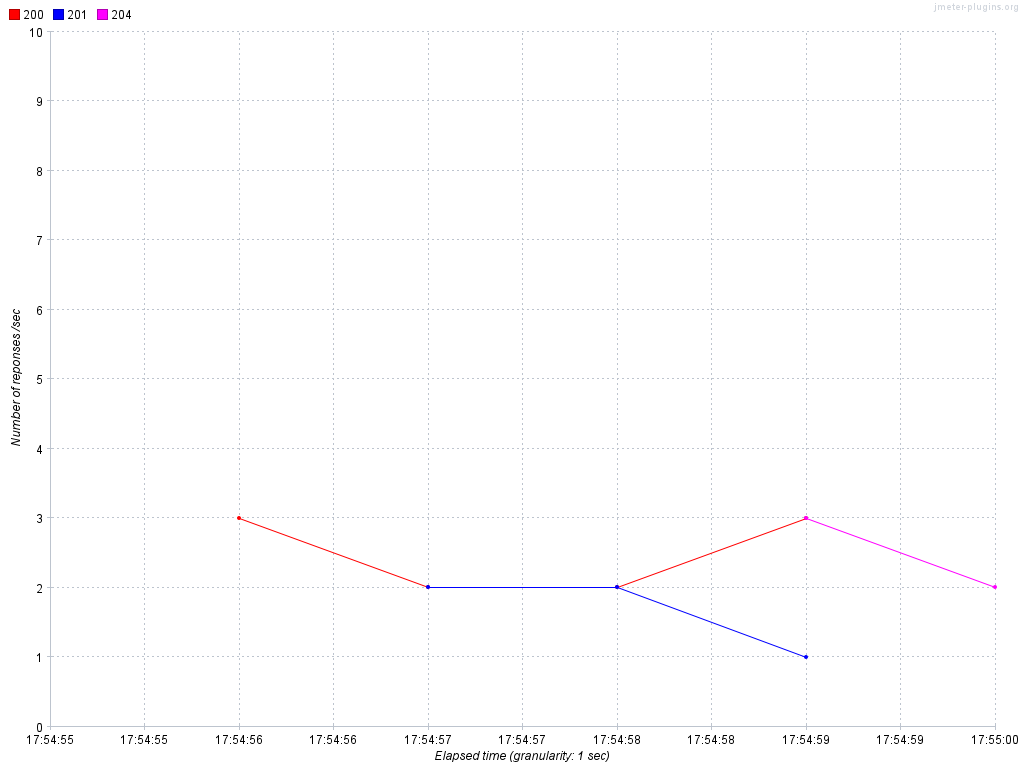
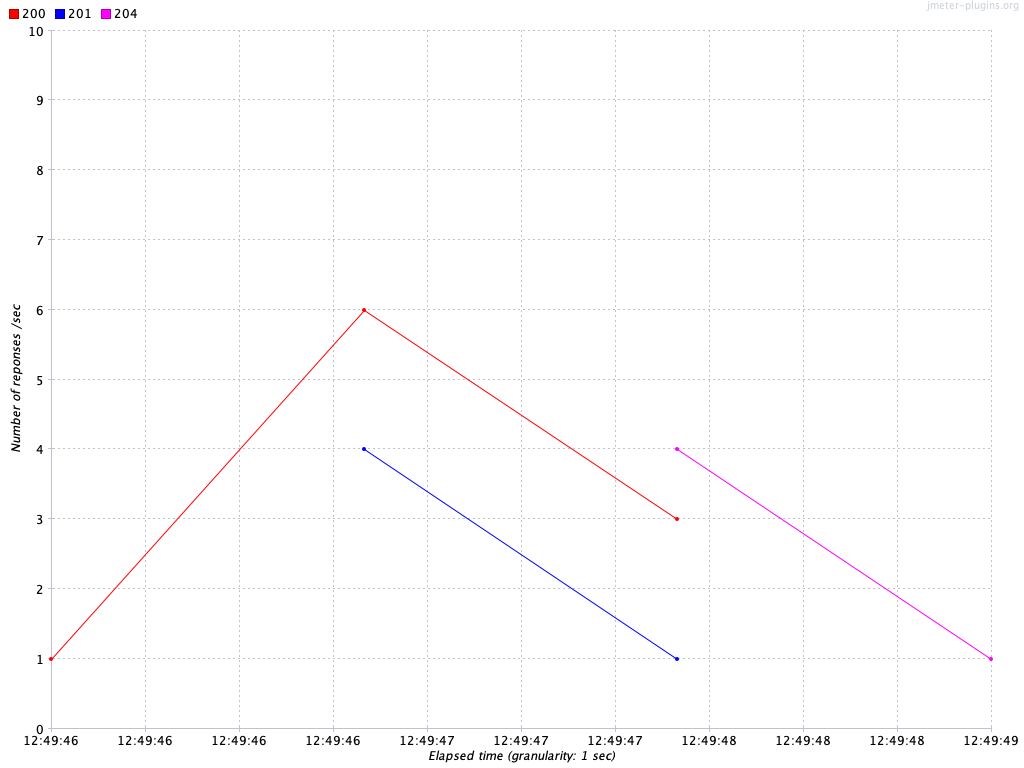
chore: update performance test reports and associated report artifacts

diff --git a/report/performance-tests/test-report.html b/report/performance-tests/test-report.html
@@ -50,7 +50,7 @@
 <a href="#"><span class="badge badge-primary">Performance Test Execution</span></a>
 </li>
 <li class="m-r-10">
-<a href="#"><span class="badge badge-primary">Jan 2, 2026 05:54:52 pm</span></a>
+<a href="#"><span class="badge badge-primary">Jan 3, 2026 12:49:44 pm</span></a>
 </li>
 </ul>
 </div>
@@ -96,7 +96,7 @@
           <div class="test-detail">
             <p class="name">GoRest User Lifecycle Test</p>
             <p class="text-sm">
-              <span>5:54:52 pm</span> / <span>00:00:06:658</span>
+              <span>12:49:44 pm</span> / <span>00:00:03:863</span>
               <span class="badge pass-bg log float-right">Pass</span>
             </p>
           </div>
@@ -105,9 +105,9 @@
 <div class="p-v-10">
 <div class="info">
 <h5 class="test-status text-pass">GoRest User Lifecycle Test</h5>
-<span class='badge badge-success'>01.02.2026 5:54:52 pm</span>
-<span class='badge badge-danger'>01.02.2026 5:54:59 pm</span>
-<span class='badge badge-default'>00:00:06:658</span>
+<span class='badge badge-success'>01.03.2026 12:49:44 pm</span>
+<span class='badge badge-danger'>01.03.2026 12:49:48 pm</span>
+<span class='badge badge-default'>00:00:03:863</span>
 &middot; <span class='uri-anchor badge badge-default'>#test-id=1</span>
 <span title='Skip to the next failed step' class='badge badge-danger pointer float-right ne ml-1'><i class="fa fa-fast-forward"></i></span>
 <span title='Collapse all nodes' class='badge badge-default pointer float-right ct ml-1'><i class="fa fa-compress"></i></span>
@@ -120,42 +120,42 @@
   <tbody>
       <tr class="event-row">
         <td><span class="badge log info-bg">Info</span></td>
-        <td>5:54:59 pm</td>
+        <td>12:49:48 pm</td>
         <td>
           <span class='badge white-text teal'>Execution Statistics</span>
         </td>
       </tr>
       <tr class="event-row">
         <td><span class="badge log info-bg">Info</span></td>
-        <td>5:54:59 pm</td>
+        <td>12:49:48 pm</td>
         <td>
-          <table class='table table-sm table-bordered'><thead><tr><th>Total</th><th>Pass</th><th>Fail</th><th>Avg Duration</th><th>Min</th><th>Max</th></tr></thead><tbody><tr><td>10</td><td style='color: green; font-weight: bold;'>10</td><td style='color: red; font-weight: bold;'>0</td><td>2380.30 ms</td><td>1791 ms</td><td>3225 ms</td></tr></tbody></table>
+          <table class='table table-sm table-bordered'><thead><tr><th>Total</th><th>Pass</th><th>Fail</th><th>Avg Duration</th><th>Min</th><th>Max</th></tr></thead><tbody><tr><td>10</td><td style='color: green; font-weight: bold;'>10</td><td style='color: red; font-weight: bold;'>0</td><td>1097.20 ms</td><td>786 ms</td><td>1954 ms</td></tr></tbody></table>
         </td>
       </tr>
       <tr class="event-row">
         <td><span class="badge log info-bg">Info</span></td>
-        <td>5:54:59 pm</td>
+        <td>12:49:48 pm</td>
         <td>
           <span class='badge white-text teal'>Detailed Execution Log</span>
         </td>
       </tr>
       <tr class="event-row">
         <td><span class="badge log info-bg">Info</span></td>
-        <td>5:54:59 pm</td>
+        <td>12:49:48 pm</td>
         <td>
-          <table class='table table-sm table-bordered'><thead><tr class='bg-gray'><th>Method</th><th>URL</th><th>Status</th><th>Duration</th></tr></thead><tbody><tr><td><span class='badge-method' style='background-color: #17a2b8'>GET</span></td><td class='col-url' title='https://gorest.co.in/public/v2/users'>https://gorest.co.in/public/v2/users</td><td><span class='badge white-text green'>200</span></td><td style='text-align: right;'>1604 ms</td></tr><tr><td colspan='4' style='color: #28a745; padding: 10px; background-color: #f0f8f0;'><b>Response:</b> <pre style='margin: 5px 0; white-space: pre-wrap; word-wrap: break-word;'>[{&quot;id&quot;:8115304,&quot;name&quot;:&quot;Rageswari Malik&quot;,&quot;email&quot;:&quot;rageswari_malik@murazik-kunde.test&quot;,&quot;gender&quot;:&quot;female&quot;,&quot;status&quot;:&quot;inactive&quot;},{&quot;id&quot;:8115303,&quot;name&quot;:&quot;Mrs. Somnath Sinha&quot;,&quot;email&quot;:&quot;mrs_sinha_somnath@larkin.example&quot;,&quot;gender&quot;:&quot;female&quot;,&quot;status&quot;:&quot;active&quot;},{&quot;id&quot;:8115302,&quot;name&quot;:&quot;Goutam Devar CPA&quot;,&quot;email&quot;:&quot;devar_cpa_goutam@thiel.example&quot;,&quot;gender&quot;:&quot;female&quot;,&quot;status&quot;:&quot;inactive&quot;},{&quot;id&quot;:8115301,&quot;name&quot;:&quot;Divya Embranthiri&quot;,&quot;email&quot;:&quot;divya_embranthiri@hirthe.example&quot;,&quot;gender&quot;:&quot;male&quot;,&quot;status&quot;:&quot;inactive&quot;},{&quot;id&quot;:8115300... (truncated)</pre></td></tr><tr><td><span class='badge-method' style='background-color: #28a745'>POST</span></td><td class='col-url' title='https://gorest.co.in/public/v2/users'>https://gorest.co.in/public/v2/users</td><td><span class='badge white-text green'>201</span></td><td style='text-align: right;'>838 ms</td></tr><tr><td colspan='4' style='color: #28a745; padding: 10px; background-color: #f0f8f0;'><b>Response:</b> <pre style='margin: 5px 0; white-space: pre-wrap; word-wrap: break-word;'>{&quot;id&quot;:8316382,&quot;name&quot;:&quot;User_48411&quot;,&quot;email&quot;:&quot;user183991767356695563@testdomain.com&quot;,&quot;gender&quot;:&quot;male&quot;,&quot;status&quot;:&quot;active&quot;}</pre></td></tr><tr><td><span class='badge-method' style='background-color: #17a2b8'>GET</span></td><td class='col-url' title='https://gorest.co.in/public/v2/users'>https://gorest.co.in/public/v2/users</td><td><span class='badge white-text green'>200</span></td><td style='text-align: right;'>1231 ms</td></tr><tr><td colspan='4' style='color: #28a745; padding: 10px; background-color: #f0f8f0;'><b>Response:</b> <pre style='margin: 5px 0; white-space: pre-wrap; word-wrap: break-word;'>[{&quot;id&quot;:8115304,&quot;name&quot;:&quot;Rageswari Malik&quot;,&quot;email&quot;:&quot;rageswari_malik@murazik-kunde.test&quot;,&quot;gender&quot;:&quot;female&quot;,&quot;status&quot;:&quot;inactive&quot;},{&quot;id&quot;:8115303,&quot;name&quot;:&quot;Mrs. Somnath Sinha&quot;,&quot;email&quot;:&quot;mrs_sinha_somnath@larkin.example&quot;,&quot;gender&quot;:&quot;female&quot;,&quot;status&quot;:&quot;active&quot;},{&quot;id&quot;:8115302,&quot;name&quot;:&quot;Goutam Devar CPA&quot;,&quot;email&quot;:&quot;devar_cpa_goutam@thiel.example&quot;,&quot;gender&quot;:&quot;female&quot;,&quot;status&quot;:&quot;inactive&quot;},{&quot;id&quot;:8115301,&quot;name&quot;:&quot;Divya Embranthiri&quot;,&quot;email&quot;:&quot;divya_embranthiri@hirthe.example&quot;,&quot;gender&quot;:&quot;male&quot;,&quot;status&quot;:&quot;inactive&quot;},{&quot;id&quot;:8115300... (truncated)</pre></td></tr><tr><td><span class='badge-method' style='background-color: #28a745'>POST</span></td><td class='col-url' title='https://gorest.co.in/public/v2/users'>https://gorest.co.in/public/v2/users</td><td><span class='badge white-text green'>201</span></td><td style='text-align: right;'>833 ms</td></tr><tr><td colspan='4' style='color: #28a745; padding: 10px; background-color: #f0f8f0;'><b>Response:</b> <pre style='margin: 5px 0; white-space: pre-wrap; word-wrap: break-word;'>{&quot;id&quot;:8316383,&quot;name&quot;:&quot;User_49370&quot;,&quot;email&quot;:&quot;user411101767356695809@testdomain.com&quot;,&quot;gender&quot;:&quot;male&quot;,&quot;status&quot;:&quot;active&quot;}</pre></td></tr><tr><td><span class='badge-method' style='background-color: #17a2b8'>GET</span></td><td class='col-url' title='https://gorest.co.in/public/v2/users'>https://gorest.co.in/public/v2/users</td><td><span class='badge white-text green'>200</span></td><td style='text-align: right;'>2017 ms</td></tr><tr><td colspan='4' style='color: #28a745; padding: 10px; background-color: #f0f8f0;'><b>Response:</b> <pre style='margin: 5px 0; white-space: pre-wrap; word-wrap: break-word;'>[{&quot;id&quot;:8115304,&quot;name&quot;:&quot;Rageswari Malik&quot;,&quot;email&quot;:&quot;rageswari_malik@murazik-kunde.test&quot;,&quot;gender&quot;:&quot;female&quot;,&quot;status&quot;:&quot;inactive&quot;},{&quot;id&quot;:8115303,&quot;name&quot;:&quot;Mrs. Somnath Sinha&quot;,&quot;email&quot;:&quot;mrs_sinha_somnath@larkin.example&quot;,&quot;gender&quot;:&quot;female&quot;,&quot;status&quot;:&quot;active&quot;},{&quot;id&quot;:8115302,&quot;name&quot;:&quot;Goutam Devar CPA&quot;,&quot;email&quot;:&quot;devar_cpa_goutam@thiel.example&quot;,&quot;gender&quot;:&quot;female&quot;,&quot;status&quot;:&quot;inactive&quot;},{&quot;id&quot;:8115301,&quot;name&quot;:&quot;Divya Embranthiri&quot;,&quot;email&quot;:&quot;divya_embranthiri@hirthe.example&quot;,&quot;gender&quot;:&quot;male&quot;,&quot;status&quot;:&quot;inactive&quot;},{&quot;id&quot;:8115300... (truncated)</pre></td></tr><tr><td><span class='badge-method' style='background-color: #28a745'>POST</span></td><td class='col-url' title='https://gorest.co.in/public/v2/users'>https://gorest.co.in/public/v2/users</td><td><span class='badge white-text green'>201</span></td><td style='text-align: right;'>1205 ms</td></tr><tr><td colspan='4' style='color: #28a745; padding: 10px; background-color: #f0f8f0;'><b>Response:</b> <pre style='margin: 5px 0; white-space: pre-wrap; word-wrap: break-word;'>{&quot;id&quot;:8316384,&quot;name&quot;:&quot;User_12925&quot;,&quot;email&quot;:&quot;user267821767356695801@testdomain.com&quot;,&quot;gender&quot;:&quot;male&quot;,&quot;status&quot;:&quot;active&quot;}</pre></td></tr><tr><td><span class='badge-method' style='background-color: #17a2b8'>GET</span></td><td class='col-url' title='https://gorest.co.in/public/v2/users'>https://gorest.co.in/public/v2/users</td><td><span class='badge white-text green'>200</span></td><td style='text-align: right;'>1224 ms</td></tr><tr><td colspan='4' style='color: #28a745; padding: 10px; background-color: #f0f8f0;'><b>Response:</b> <pre style='margin: 5px 0; white-space: pre-wrap; word-wrap: break-word;'>[{&quot;id&quot;:8115304,&quot;name&quot;:&quot;Rageswari Malik&quot;,&quot;email&quot;:&quot;rageswari_malik@murazik-kunde.test&quot;,&quot;gender&quot;:&quot;female&quot;,&quot;status&quot;:&quot;inactive&quot;},{&quot;id&quot;:8115303,&quot;name&quot;:&quot;Mrs. Somnath Sinha&quot;,&quot;email&quot;:&quot;mrs_sinha_somnath@larkin.example&quot;,&quot;gender&quot;:&quot;female&quot;,&quot;status&quot;:&quot;active&quot;},{&quot;id&quot;:8115302,&quot;name&quot;:&quot;Goutam Devar CPA&quot;,&quot;email&quot;:&quot;devar_cpa_goutam@thiel.example&quot;,&quot;gender&quot;:&quot;female&quot;,&quot;status&quot;:&quot;inactive&quot;},{&quot;id&quot;:8115301,&quot;name&quot;:&quot;Divya Embranthiri&quot;,&quot;email&quot;:&quot;divya_embranthiri@hirthe.example&quot;,&quot;gender&quot;:&quot;male&quot;,&quot;status&quot;:&quot;inactive&quot;},{&quot;id&quot;:8115300... (truncated)</pre></td></tr><tr><td><span class='badge-method' style='background-color: #28a745'>POST</span></td><td class='col-url' title='https://gorest.co.in/public/v2/users'>https://gorest.co.in/public/v2/users</td><td><span class='badge white-text green'>201</span></td><td style='text-align: right;'>1624 ms</td></tr><tr><td colspan='4' style='color: #28a745; padding: 10px; background-color: #f0f8f0;'><b>Response:</b> <pre style='margin: 5px 0; white-space: pre-wrap; word-wrap: break-word;'>{&quot;id&quot;:8316385,&quot;name&quot;:&quot;User_82265&quot;,&quot;email&quot;:&quot;user343661767356695563@testdomain.com&quot;,&quot;gender&quot;:&quot;male&quot;,&quot;status&quot;:&quot;active&quot;}</pre></td></tr><tr><td><span class='badge-method' style='background-color: #17a2b8'>GET</span></td><td class='col-url' title='https://gorest.co.in/public/v2/users'>https://gorest.co.in/public/v2/users</td><td><span class='badge white-text green'>200</span></td><td style='text-align: right;'>872 ms</td></tr><tr><td colspan='4' style='color: #28a745; padding: 10px; background-color: #f0f8f0;'><b>Response:</b> <pre style='margin: 5px 0; white-space: pre-wrap; word-wrap: break-word;'>[{&quot;id&quot;:8115304,&quot;name&quot;:&quot;Rageswari Malik&quot;,&quot;email&quot;:&quot;rageswari_malik@murazik-kunde.test&quot;,&quot;gender&quot;:&quot;female&quot;,&quot;status&quot;:&quot;inactive&quot;},{&quot;id&quot;:8115303,&quot;name&quot;:&quot;Mrs. Somnath Sinha&quot;,&quot;email&quot;:&quot;mrs_sinha_somnath@larkin.example&quot;,&quot;gender&quot;:&quot;female&quot;,&quot;status&quot;:&quot;active&quot;},{&quot;id&quot;:8115302,&quot;name&quot;:&quot;Goutam Devar CPA&quot;,&quot;email&quot;:&quot;devar_cpa_goutam@thiel.example&quot;,&quot;gender&quot;:&quot;female&quot;,&quot;status&quot;:&quot;inactive&quot;},{&quot;id&quot;:8115301,&quot;name&quot;:&quot;Divya Embranthiri&quot;,&quot;email&quot;:&quot;divya_embranthiri@hirthe.example&quot;,&quot;gender&quot;:&quot;male&quot;,&quot;status&quot;:&quot;inactive&quot;},{&quot;id&quot;:8115300... (truncated)</pre></td></tr><tr><td><span class='badge-method' style='background-color: #28a745'>POST</span></td><td class='col-url' title='https://gorest.co.in/public/v2/users'>https://gorest.co.in/public/v2/users</td><td><span class='badge white-text green'>201</span></td><td style='text-align: right;'>1939 ms</td></tr><tr><td colspan='4' style='color: #28a745; padding: 10px; background-color: #f0f8f0;'><b>Response:</b> <pre style='margin: 5px 0; white-space: pre-wrap; word-wrap: break-word;'>{&quot;id&quot;:8316386,&quot;name&quot;:&quot;User_80736&quot;,&quot;email&quot;:&quot;user533271767356695849@testdomain.com&quot;,&quot;gender&quot;:&quot;male&quot;,&quot;status&quot;:&quot;active&quot;}</pre></td></tr><tr><td><span class='badge-method' style='background-color: #777'>PATCH</span></td><td class='col-url' title='https://gorest.co.in/public/v2/users/8316383'>https://gorest.co.in/public/v2/users/8316383</td><td><span class='badge white-text green'>200</span></td><td style='text-align: right;'>894 ms</td></tr><tr><td colspan='4' style='color: #28a745; padding: 10px; background-color: #f0f8f0;'><b>Response:</b> <pre style='margin: 5px 0; white-space: pre-wrap; word-wrap: break-word;'>{&quot;email&quot;:&quot;updated469051767356696643@testdomain.com&quot;,&quot;name&quot;:&quot;UpdatedUser_76433&quot;,&quot;status&quot;:&quot;active&quot;,&quot;id&quot;:8316383,&quot;gender&quot;:&quot;male&quot;}</pre></td></tr><tr><td><span class='badge-method' style='background-color: #dc3545'>DELETE</span></td><td class='col-url' title='https://gorest.co.in/public/v2/users/8316383'>https://gorest.co.in/public/v2/users/8316383</td><td><span class='badge white-text green'>204</span></td><td style='text-align: right;'>930 ms</td></tr><tr><td><span class='badge-method' style='background-color: #777'>PATCH</span></td><td class='col-url' title='https://gorest.co.in/public/v2/users/8316382'>https://gorest.co.in/public/v2/users/8316382</td><td><span class='badge white-text green'>200</span></td><td style='text-align: right;'>1203 ms</td></tr><tr><td colspan='4' style='color: #28a745; padding: 10px; background-color: #f0f8f0;'><b>Response:</b> <pre style='margin: 5px 0; white-space: pre-wrap; word-wrap: break-word;'>{&quot;email&quot;:&quot;updated147251767356696425@testdomain.com&quot;,&quot;name&quot;:&quot;UpdatedUser_71459&quot;,&quot;status&quot;:&quot;active&quot;,&quot;id&quot;:8316382,&quot;gender&quot;:&quot;male&quot;}</pre></td></tr><tr><td><span class='badge-method' style='background-color: #dc3545'>DELETE</span></td><td class='col-url' title='https://gorest.co.in/public/v2/users/8316382'>https://gorest.co.in/public/v2/users/8316382</td><td><span class='badge white-text green'>204</span></td><td style='text-align: right;'>846 ms</td></tr><tr><td><span class='badge-method' style='background-color: #777'>PATCH</span></td><td class='col-url' title='https://gorest.co.in/public/v2/users/8316384'>https://gorest.co.in/public/v2/users/8316384</td><td><span class='badge white-text green'>200</span></td><td style='text-align: right;'>1079 ms</td></tr><tr><td colspan='4' style='color: #28a745; padding: 10px; background-color: #f0f8f0;'><b>Response:</b> <pre style='margin: 5px 0; white-space: pre-wrap; word-wrap: break-word;'>{&quot;email&quot;:&quot;updated229401767356697007@testdomain.com&quot;,&quot;name&quot;:&quot;UpdatedUser_84416&quot;,&quot;status&quot;:&quot;active&quot;,&quot;id&quot;:8316384,&quot;gender&quot;:&quot;male&quot;}</pre></td></tr><tr><td><span class='badge-method' style='background-color: #dc3545'>DELETE</span></td><td class='col-url' title='https://gorest.co.in/public/v2/users/8316384'>https://gorest.co.in/public/v2/users/8316384</td><td><span class='badge white-text green'>204</span></td><td style='text-align: right;'>858 ms</td></tr><tr><td><span class='badge-method' style='background-color: #777'>PATCH</span></td><td class='col-url' title='https://gorest.co.in/public/v2/users/8316385'>https://gorest.co.in/public/v2/users/8316385</td><td><span class='badge white-text green'>200</span></td><td style='text-align: right;'>1189 ms</td></tr><tr><td colspan='4' style='color: #28a745; padding: 10px; background-color: #f0f8f0;'><b>Response:</b> <pre style='margin: 5px 0; white-space: pre-wrap; word-wrap: break-word;'>{&quot;email&quot;:&quot;updated353991767356697188@testdomain.com&quot;,&quot;name&quot;:&quot;UpdatedUser_35532&quot;,&quot;status&quot;:&quot;active&quot;,&quot;id&quot;:8316385,&quot;gender&quot;:&quot;male&quot;}</pre></td></tr><tr><td><span class='badge-method' style='background-color: #dc3545'>DELETE</span></td><td class='col-url' title='https://gorest.co.in/public/v2/users/8316385'>https://gorest.co.in/public/v2/users/8316385</td><td><span class='badge white-text green'>204</span></td><td style='text-align: right;'>883 ms</td></tr><tr><td><span class='badge-method' style='background-color: #777'>PATCH</span></td><td class='col-url' title='https://gorest.co.in/public/v2/users/8316386'>https://gorest.co.in/public/v2/users/8316386</td><td><span class='badge white-text green'>200</span></td><td style='text-align: right;'>869 ms</td></tr><tr><td colspan='4' style='color: #28a745; padding: 10px; background-color: #f0f8f0;'><b>Response:</b> <pre style='margin: 5px 0; white-space: pre-wrap; word-wrap: break-word;'>{&quot;email&quot;:&quot;updated535561767356697790@testdomain.com&quot;,&quot;name&quot;:&quot;UpdatedUser_30443&quot;,&quot;status&quot;:&quot;active&quot;,&quot;id&quot;:8316386,&quot;gender&quot;:&quot;male&quot;}</pre></td></tr><tr><td><span class='badge-method' style='background-color: #dc3545'>DELETE</span></td><td class='col-url' title='https://gorest.co.in/public/v2/users/8316386'>https://gorest.co.in/public/v2/users/8316386</td><td><span class='badge white-text green'>204</span></td><td style='text-align: right;'>921 ms</td></tr></tbody></table>
+          <table class='table table-sm table-bordered'><thead><tr class='bg-gray'><th>Method</th><th>URL</th><th>Status</th><th>Duration</th></tr></thead><tbody><tr><td><span class='badge-method' style='background-color: #17a2b8'>GET</span></td><td class='col-url' title='https://gorest.co.in/public/v2/users'>https://gorest.co.in/public/v2/users</td><td><span class='badge white-text green'>200</span></td><td style='text-align: right;'>1119 ms</td></tr><tr><td colspan='4' style='color: #28a745; padding: 10px; background-color: #f0f8f0;'><b>Response:</b> <pre style='margin: 5px 0; white-space: pre-wrap; word-wrap: break-word;'>[{&quot;id&quot;:8115290,&quot;name&quot;:&quot;Rajinder Gowda&quot;,&quot;email&quot;:&quot;rajinder_gowda@mueller.example&quot;,&quot;gender&quot;:&quot;female&quot;,&quot;status&quot;:&quot;inactive&quot;},{&quot;id&quot;:8115289,&quot;name&quot;:&quot;Bhishma Kaul&quot;,&quot;email&quot;:&quot;bhishma_kaul@oconner.test&quot;,&quot;gender&quot;:&quot;male&quot;,&quot;status&quot;:&quot;inactive&quot;},{&quot;id&quot;:8115288,&quot;name&quot;:&quot;Aanjaneya Rana&quot;,&quot;email&quot;:&quot;rana_aanjaneya@strosin.test&quot;,&quot;gender&quot;:&quot;male&quot;,&quot;status&quot;:&quot;inactive&quot;},{&quot;id&quot;:8115286,&quot;name&quot;:&quot;Veda Mahajan V&quot;,&quot;email&quot;:&quot;veda_mahajan_v@cummings.example&quot;,&quot;gender&quot;:&quot;female&quot;,&quot;status&quot;:&quot;active&quot;},{&quot;id&quot;:8115284,&quot;name&quot;:&quot;Dr. Ravi Ganaka&quot;,&quot;em... (truncated)</pre></td></tr><tr><td><span class='badge-method' style='background-color: #28a745'>POST</span></td><td class='col-url' title='https://gorest.co.in/public/v2/users'>https://gorest.co.in/public/v2/users</td><td><span class='badge white-text green'>201</span></td><td style='text-align: right;'>503 ms</td></tr><tr><td colspan='4' style='color: #28a745; padding: 10px; background-color: #f0f8f0;'><b>Response:</b> <pre style='margin: 5px 0; white-space: pre-wrap; word-wrap: break-word;'>{&quot;id&quot;:8316837,&quot;name&quot;:&quot;User_38485&quot;,&quot;email&quot;:&quot;user146041767424786556@testdomain.com&quot;,&quot;gender&quot;:&quot;male&quot;,&quot;status&quot;:&quot;active&quot;}</pre></td></tr><tr><td><span class='badge-method' style='background-color: #17a2b8'>GET</span></td><td class='col-url' title='https://gorest.co.in/public/v2/users'>https://gorest.co.in/public/v2/users</td><td><span class='badge white-text green'>200</span></td><td style='text-align: right;'>519 ms</td></tr><tr><td colspan='4' style='color: #28a745; padding: 10px; background-color: #f0f8f0;'><b>Response:</b> <pre style='margin: 5px 0; white-space: pre-wrap; word-wrap: break-word;'>[{&quot;id&quot;:8115290,&quot;name&quot;:&quot;Rajinder Gowda&quot;,&quot;email&quot;:&quot;rajinder_gowda@mueller.example&quot;,&quot;gender&quot;:&quot;female&quot;,&quot;status&quot;:&quot;inactive&quot;},{&quot;id&quot;:8115289,&quot;name&quot;:&quot;Bhishma Kaul&quot;,&quot;email&quot;:&quot;bhishma_kaul@oconner.test&quot;,&quot;gender&quot;:&quot;male&quot;,&quot;status&quot;:&quot;inactive&quot;},{&quot;id&quot;:8115288,&quot;name&quot;:&quot;Aanjaneya Rana&quot;,&quot;email&quot;:&quot;rana_aanjaneya@strosin.test&quot;,&quot;gender&quot;:&quot;male&quot;,&quot;status&quot;:&quot;inactive&quot;},{&quot;id&quot;:8115286,&quot;name&quot;:&quot;Veda Mahajan V&quot;,&quot;email&quot;:&quot;veda_mahajan_v@cummings.example&quot;,&quot;gender&quot;:&quot;female&quot;,&quot;status&quot;:&quot;active&quot;},{&quot;id&quot;:8115284,&quot;name&quot;:&quot;Dr. Ravi Ganaka&quot;,&quot;em... (truncated)</pre></td></tr><tr><td><span class='badge-method' style='background-color: #28a745'>POST</span></td><td class='col-url' title='https://gorest.co.in/public/v2/users'>https://gorest.co.in/public/v2/users</td><td><span class='badge white-text green'>201</span></td><td style='text-align: right;'>495 ms</td></tr><tr><td colspan='4' style='color: #28a745; padding: 10px; background-color: #f0f8f0;'><b>Response:</b> <pre style='margin: 5px 0; white-space: pre-wrap; word-wrap: break-word;'>{&quot;id&quot;:8316836,&quot;name&quot;:&quot;User_75817&quot;,&quot;email&quot;:&quot;user386291767424786556@testdomain.com&quot;,&quot;gender&quot;:&quot;male&quot;,&quot;status&quot;:&quot;active&quot;}</pre></td></tr><tr><td><span class='badge-method' style='background-color: #17a2b8'>GET</span></td><td class='col-url' title='https://gorest.co.in/public/v2/users'>https://gorest.co.in/public/v2/users</td><td><span class='badge white-text green'>200</span></td><td style='text-align: right;'>759 ms</td></tr><tr><td colspan='4' style='color: #28a745; padding: 10px; background-color: #f0f8f0;'><b>Response:</b> <pre style='margin: 5px 0; white-space: pre-wrap; word-wrap: break-word;'>[{&quot;id&quot;:8115290,&quot;name&quot;:&quot;Rajinder Gowda&quot;,&quot;email&quot;:&quot;rajinder_gowda@mueller.example&quot;,&quot;gender&quot;:&quot;female&quot;,&quot;status&quot;:&quot;inactive&quot;},{&quot;id&quot;:8115289,&quot;name&quot;:&quot;Bhishma Kaul&quot;,&quot;email&quot;:&quot;bhishma_kaul@oconner.test&quot;,&quot;gender&quot;:&quot;male&quot;,&quot;status&quot;:&quot;inactive&quot;},{&quot;id&quot;:8115288,&quot;name&quot;:&quot;Aanjaneya Rana&quot;,&quot;email&quot;:&quot;rana_aanjaneya@strosin.test&quot;,&quot;gender&quot;:&quot;male&quot;,&quot;status&quot;:&quot;inactive&quot;},{&quot;id&quot;:8115286,&quot;name&quot;:&quot;Veda Mahajan V&quot;,&quot;email&quot;:&quot;veda_mahajan_v@cummings.example&quot;,&quot;gender&quot;:&quot;female&quot;,&quot;status&quot;:&quot;active&quot;},{&quot;id&quot;:8115284,&quot;name&quot;:&quot;Dr. Ravi Ganaka&quot;,&quot;em... (truncated)</pre></td></tr><tr><td><span class='badge-method' style='background-color: #28a745'>POST</span></td><td class='col-url' title='https://gorest.co.in/public/v2/users'>https://gorest.co.in/public/v2/users</td><td><span class='badge white-text green'>201</span></td><td style='text-align: right;'>490 ms</td></tr><tr><td colspan='4' style='color: #28a745; padding: 10px; background-color: #f0f8f0;'><b>Response:</b> <pre style='margin: 5px 0; white-space: pre-wrap; word-wrap: break-word;'>{&quot;id&quot;:8316835,&quot;name&quot;:&quot;User_86460&quot;,&quot;email&quot;:&quot;user291441767424786556@testdomain.com&quot;,&quot;gender&quot;:&quot;male&quot;,&quot;status&quot;:&quot;active&quot;}</pre></td></tr><tr><td><span class='badge-method' style='background-color: #17a2b8'>GET</span></td><td class='col-url' title='https://gorest.co.in/public/v2/users'>https://gorest.co.in/public/v2/users</td><td><span class='badge white-text green'>200</span></td><td style='text-align: right;'>504 ms</td></tr><tr><td colspan='4' style='color: #28a745; padding: 10px; background-color: #f0f8f0;'><b>Response:</b> <pre style='margin: 5px 0; white-space: pre-wrap; word-wrap: break-word;'>[{&quot;id&quot;:8115290,&quot;name&quot;:&quot;Rajinder Gowda&quot;,&quot;email&quot;:&quot;rajinder_gowda@mueller.example&quot;,&quot;gender&quot;:&quot;female&quot;,&quot;status&quot;:&quot;inactive&quot;},{&quot;id&quot;:8115289,&quot;name&quot;:&quot;Bhishma Kaul&quot;,&quot;email&quot;:&quot;bhishma_kaul@oconner.test&quot;,&quot;gender&quot;:&quot;male&quot;,&quot;status&quot;:&quot;inactive&quot;},{&quot;id&quot;:8115288,&quot;name&quot;:&quot;Aanjaneya Rana&quot;,&quot;email&quot;:&quot;rana_aanjaneya@strosin.test&quot;,&quot;gender&quot;:&quot;male&quot;,&quot;status&quot;:&quot;inactive&quot;},{&quot;id&quot;:8115286,&quot;name&quot;:&quot;Veda Mahajan V&quot;,&quot;email&quot;:&quot;veda_mahajan_v@cummings.example&quot;,&quot;gender&quot;:&quot;female&quot;,&quot;status&quot;:&quot;active&quot;},{&quot;id&quot;:8115284,&quot;name&quot;:&quot;Dr. Ravi Ganaka&quot;,&quot;em... (truncated)</pre></td></tr><tr><td><span class='badge-method' style='background-color: #28a745'>POST</span></td><td class='col-url' title='https://gorest.co.in/public/v2/users'>https://gorest.co.in/public/v2/users</td><td><span class='badge white-text green'>201</span></td><td style='text-align: right;'>398 ms</td></tr><tr><td colspan='4' style='color: #28a745; padding: 10px; background-color: #f0f8f0;'><b>Response:</b> <pre style='margin: 5px 0; white-space: pre-wrap; word-wrap: break-word;'>{&quot;id&quot;:8316838,&quot;name&quot;:&quot;User_88801&quot;,&quot;email&quot;:&quot;user446941767424786806@testdomain.com&quot;,&quot;gender&quot;:&quot;male&quot;,&quot;status&quot;:&quot;active&quot;}</pre></td></tr><tr><td><span class='badge-method' style='background-color: #17a2b8'>GET</span></td><td class='col-url' title='https://gorest.co.in/public/v2/users'>https://gorest.co.in/public/v2/users</td><td><span class='badge white-text green'>200</span></td><td style='text-align: right;'>497 ms</td></tr><tr><td colspan='4' style='color: #28a745; padding: 10px; background-color: #f0f8f0;'><b>Response:</b> <pre style='margin: 5px 0; white-space: pre-wrap; word-wrap: break-word;'>[{&quot;id&quot;:8316837,&quot;name&quot;:&quot;User_38485&quot;,&quot;email&quot;:&quot;user146041767424786556@testdomain.com&quot;,&quot;gender&quot;:&quot;male&quot;,&quot;status&quot;:&quot;active&quot;},{&quot;id&quot;:8316836,&quot;name&quot;:&quot;User_75817&quot;,&quot;email&quot;:&quot;user386291767424786556@testdomain.com&quot;,&quot;gender&quot;:&quot;male&quot;,&quot;status&quot;:&quot;active&quot;},{&quot;id&quot;:8316835,&quot;name&quot;:&quot;User_86460&quot;,&quot;email&quot;:&quot;user291441767424786556@testdomain.com&quot;,&quot;gender&quot;:&quot;male&quot;,&quot;status&quot;:&quot;active&quot;},{&quot;id&quot;:8115290,&quot;name&quot;:&quot;Rajinder Gowda&quot;,&quot;email&quot;:&quot;rajinder_gowda@mueller.example&quot;,&quot;gender&quot;:&quot;female&quot;,&quot;status&quot;:&quot;inactive&quot;},{&quot;id&quot;:8115289,&quot;name&quot;:&quot;Bhishma ... (truncated)</pre></td></tr><tr><td><span class='badge-method' style='background-color: #28a745'>POST</span></td><td class='col-url' title='https://gorest.co.in/public/v2/users'>https://gorest.co.in/public/v2/users</td><td><span class='badge white-text green'>201</span></td><td style='text-align: right;'>499 ms</td></tr><tr><td colspan='4' style='color: #28a745; padding: 10px; background-color: #f0f8f0;'><b>Response:</b> <pre style='margin: 5px 0; white-space: pre-wrap; word-wrap: break-word;'>{&quot;id&quot;:8316839,&quot;name&quot;:&quot;User_94152&quot;,&quot;email&quot;:&quot;user598961767424787198@testdomain.com&quot;,&quot;gender&quot;:&quot;male&quot;,&quot;status&quot;:&quot;active&quot;}</pre></td></tr><tr><td><span class='badge-method' style='background-color: #777'>PATCH</span></td><td class='col-url' title='https://gorest.co.in/public/v2/users/8316836'>https://gorest.co.in/public/v2/users/8316836</td><td><span class='badge white-text green'>200</span></td><td style='text-align: right;'>407 ms</td></tr><tr><td colspan='4' style='color: #28a745; padding: 10px; background-color: #f0f8f0;'><b>Response:</b> <pre style='margin: 5px 0; white-space: pre-wrap; word-wrap: break-word;'>{&quot;email&quot;:&quot;updated394751767424787077@testdomain.com&quot;,&quot;name&quot;:&quot;UpdatedUser_42382&quot;,&quot;status&quot;:&quot;active&quot;,&quot;id&quot;:8316836,&quot;gender&quot;:&quot;male&quot;}</pre></td></tr><tr><td><span class='badge-method' style='background-color: #dc3545'>DELETE</span></td><td class='col-url' title='https://gorest.co.in/public/v2/users/8316836'>https://gorest.co.in/public/v2/users/8316836</td><td><span class='badge white-text green'>204</span></td><td style='text-align: right;'>377 ms</td></tr><tr><td><span class='badge-method' style='background-color: #777'>PATCH</span></td><td class='col-url' title='https://gorest.co.in/public/v2/users/8316835'>https://gorest.co.in/public/v2/users/8316835</td><td><span class='badge white-text green'>200</span></td><td style='text-align: right;'>387 ms</td></tr><tr><td colspan='4' style='color: #28a745; padding: 10px; background-color: #f0f8f0;'><b>Response:</b> <pre style='margin: 5px 0; white-space: pre-wrap; word-wrap: break-word;'>{&quot;email&quot;:&quot;updated259741767424787077@testdomain.com&quot;,&quot;name&quot;:&quot;UpdatedUser_96270&quot;,&quot;status&quot;:&quot;active&quot;,&quot;id&quot;:8316835,&quot;gender&quot;:&quot;male&quot;}</pre></td></tr><tr><td><span class='badge-method' style='background-color: #dc3545'>DELETE</span></td><td class='col-url' title='https://gorest.co.in/public/v2/users/8316835'>https://gorest.co.in/public/v2/users/8316835</td><td><span class='badge white-text green'>204</span></td><td style='text-align: right;'>496 ms</td></tr><tr><td><span class='badge-method' style='background-color: #777'>PATCH</span></td><td class='col-url' title='https://gorest.co.in/public/v2/users/8316837'>https://gorest.co.in/public/v2/users/8316837</td><td><span class='badge white-text green'>200</span></td><td style='text-align: right;'>529 ms</td></tr><tr><td colspan='4' style='color: #28a745; padding: 10px; background-color: #f0f8f0;'><b>Response:</b> <pre style='margin: 5px 0; white-space: pre-wrap; word-wrap: break-word;'>{&quot;email&quot;:&quot;updated166691767424787077@testdomain.com&quot;,&quot;name&quot;:&quot;UpdatedUser_10021&quot;,&quot;status&quot;:&quot;active&quot;,&quot;id&quot;:8316837,&quot;gender&quot;:&quot;male&quot;}</pre></td></tr><tr><td><span class='badge-method' style='background-color: #dc3545'>DELETE</span></td><td class='col-url' title='https://gorest.co.in/public/v2/users/8316837'>https://gorest.co.in/public/v2/users/8316837</td><td><span class='badge white-text green'>204</span></td><td style='text-align: right;'>399 ms</td></tr><tr><td><span class='badge-method' style='background-color: #777'>PATCH</span></td><td class='col-url' title='https://gorest.co.in/public/v2/users/8316838'>https://gorest.co.in/public/v2/users/8316838</td><td><span class='badge white-text green'>200</span></td><td style='text-align: right;'>503 ms</td></tr><tr><td colspan='4' style='color: #28a745; padding: 10px; background-color: #f0f8f0;'><b>Response:</b> <pre style='margin: 5px 0; white-space: pre-wrap; word-wrap: break-word;'>{&quot;email&quot;:&quot;updated488121767424787205@testdomain.com&quot;,&quot;name&quot;:&quot;UpdatedUser_24465&quot;,&quot;status&quot;:&quot;active&quot;,&quot;id&quot;:8316838,&quot;gender&quot;:&quot;male&quot;}</pre></td></tr><tr><td><span class='badge-method' style='background-color: #dc3545'>DELETE</span></td><td class='col-url' title='https://gorest.co.in/public/v2/users/8316838'>https://gorest.co.in/public/v2/users/8316838</td><td><span class='badge white-text green'>204</span></td><td style='text-align: right;'>385 ms</td></tr><tr><td><span class='badge-method' style='background-color: #777'>PATCH</span></td><td class='col-url' title='https://gorest.co.in/public/v2/users/8316839'>https://gorest.co.in/public/v2/users/8316839</td><td><span class='badge white-text green'>200</span></td><td style='text-align: right;'>519 ms</td></tr><tr><td colspan='4' style='color: #28a745; padding: 10px; background-color: #f0f8f0;'><b>Response:</b> <pre style='margin: 5px 0; white-space: pre-wrap; word-wrap: break-word;'>{&quot;email&quot;:&quot;updated563281767424787698@testdomain.com&quot;,&quot;name&quot;:&quot;UpdatedUser_16853&quot;,&quot;status&quot;:&quot;active&quot;,&quot;id&quot;:8316839,&quot;gender&quot;:&quot;male&quot;}</pre></td></tr><tr><td><span class='badge-method' style='background-color: #dc3545'>DELETE</span></td><td class='col-url' title='https://gorest.co.in/public/v2/users/8316839'>https://gorest.co.in/public/v2/users/8316839</td><td><span class='badge white-text green'>204</span></td><td style='text-align: right;'>420 ms</td></tr></tbody></table>
         </td>
       </tr>
       <tr class="event-row">
         <td><span class="badge log pass-bg">Pass</span></td>
-        <td>5:54:59 pm</td>
+        <td>12:49:48 pm</td>
         <td>
           Test Completed Successfully
         </td>
       </tr>
       <tr class="event-row">
         <td><span class="badge log pass-bg">Pass</span></td>
-        <td>5:54:59 pm</td>
+        <td>12:49:48 pm</td>
         <td>
           Test Passed
         </td>
@@ -179,13 +179,13 @@
 <div class="col-md-3">
 <div class="card"><div class="card-body">
 <p class="m-b-0">Started</p>
-<h3>Jan 2, 2026 05:54:52 pm</h3>
+<h3>Jan 3, 2026 12:49:44 pm</h3>
 </div></div>
 </div>
 <div class="col-md-3">
 <div class="card"><div class="card-body">
 <p class="m-b-0">Ended</p>
-<h3>Jan 2, 2026 05:54:59 pm</h3>
+<h3>Jan 3, 2026 12:49:48 pm</h3>
 </div></div>
 </div>
 <div class="col-md-3">
@@ -255,7 +255,7 @@
 </div></div>
 <script>
 var timeline = {
-"GoRest User Lifecycle Test":6.658
+"GoRest User Lifecycle Test":3.863
 };
 </script>
 <div class="row">
@@ -267,11 +267,11 @@ var timeline = {
 <tbody>
 <tr>
 <td>OS</td>
-<td>Windows 11</td>
+<td>Mac OS X</td>
 </tr>
 <tr>
 <td>Java Version</td>
-<td>21.0.7</td>
+<td>17.0.16</td>
 </tr>
 </tbody>
 </table></div>
